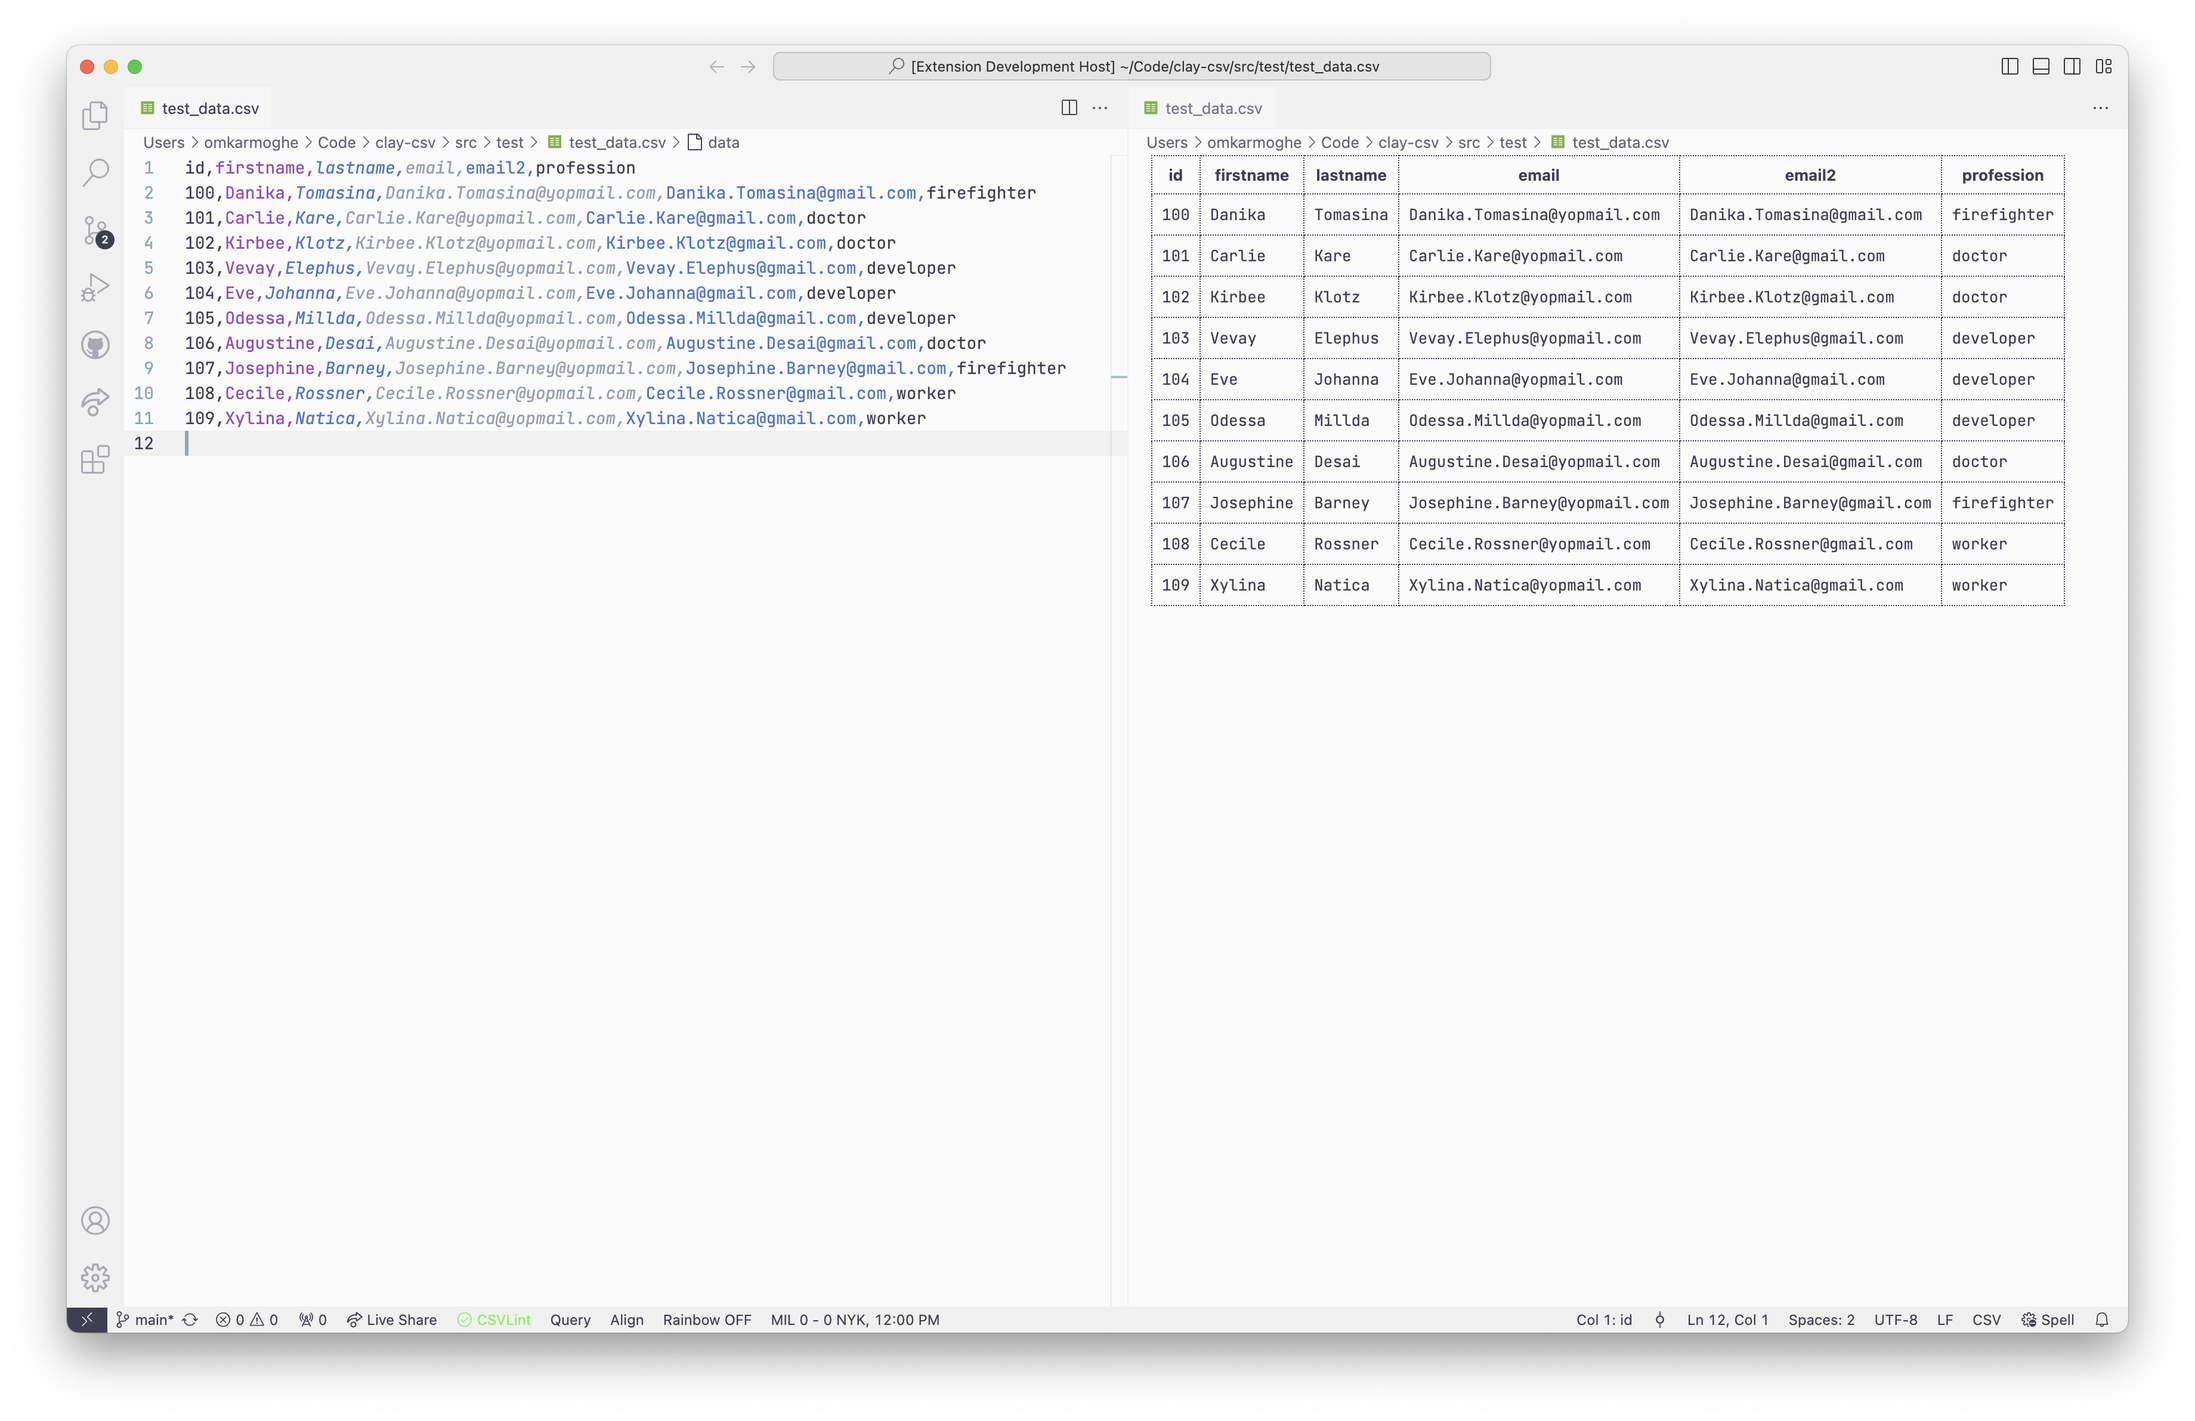
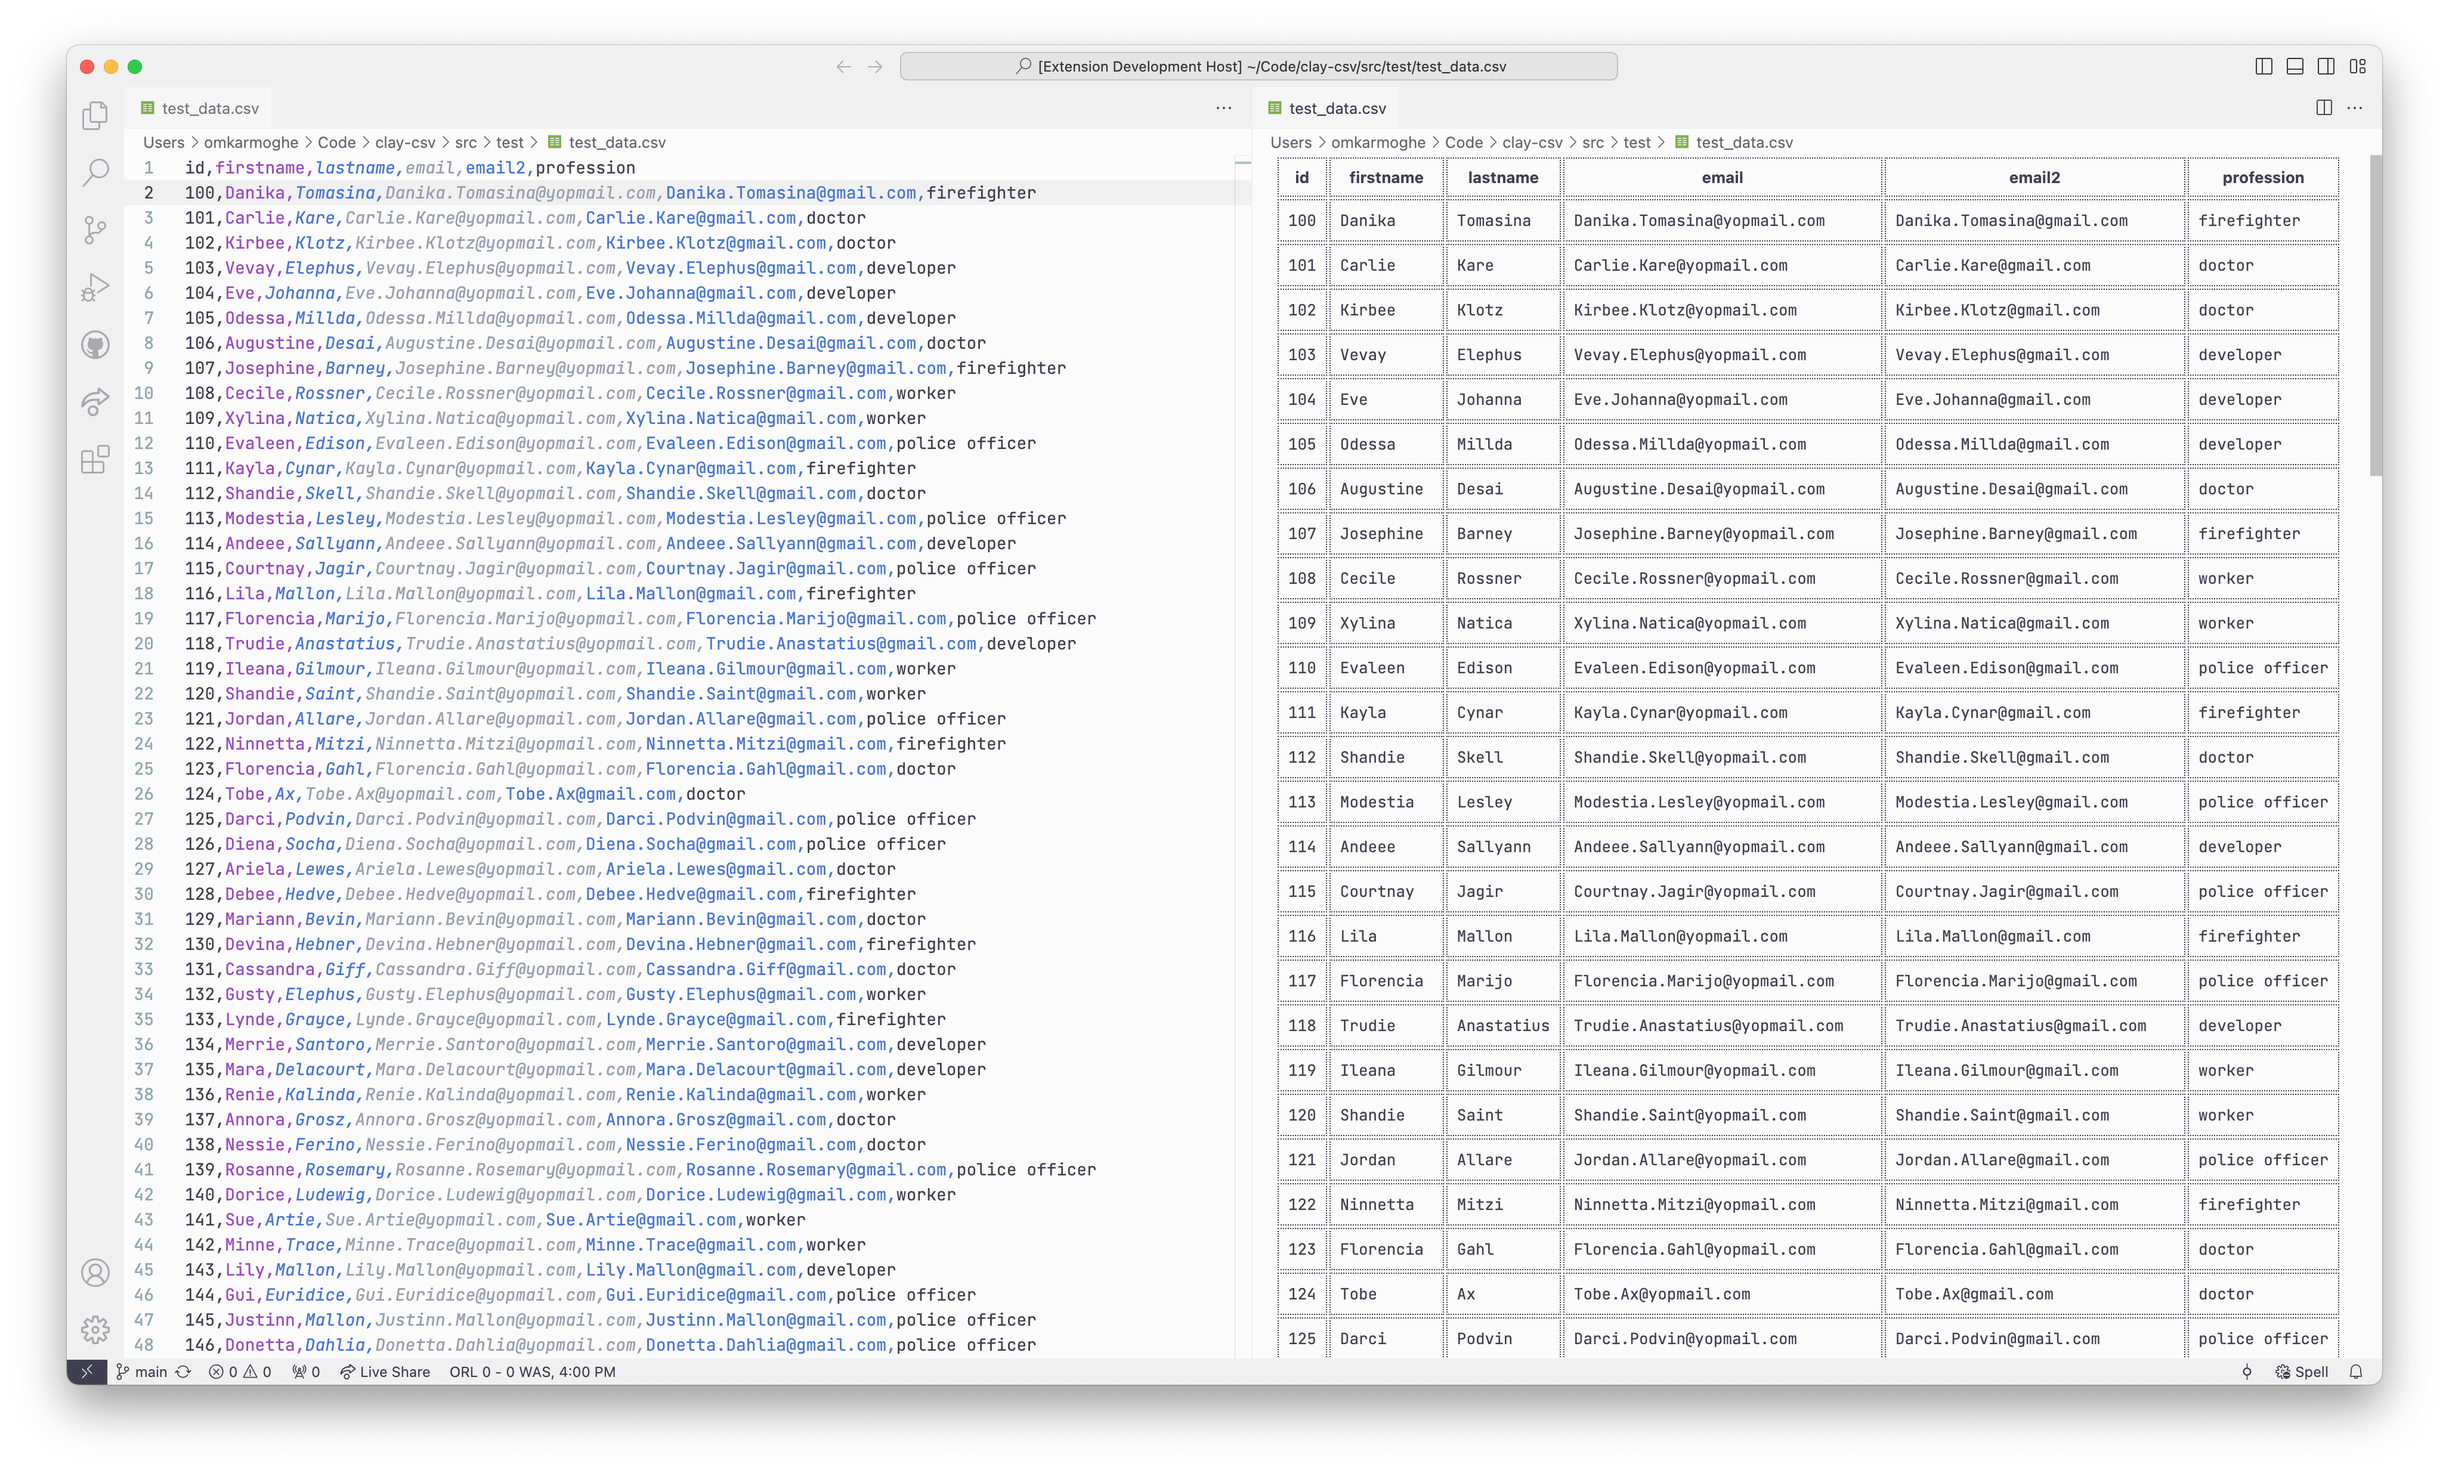
new screenshots

diff --git a/README.md b/README.md
@@ -4,7 +4,10 @@ CSV tools for developers.
 ## Features
 
 ### Simple table view of data
-![Table view](/images/features/table-view.png)
+![Table view screenshot](/images/features/table-view.png)
 
 ### Click to copy
 ![Click to copy screenshot](/images/features/click-to-copy.png)
+
+### Sticky headers
+![Sticky headers screenshot](/images/features/sticky-headers.png)
